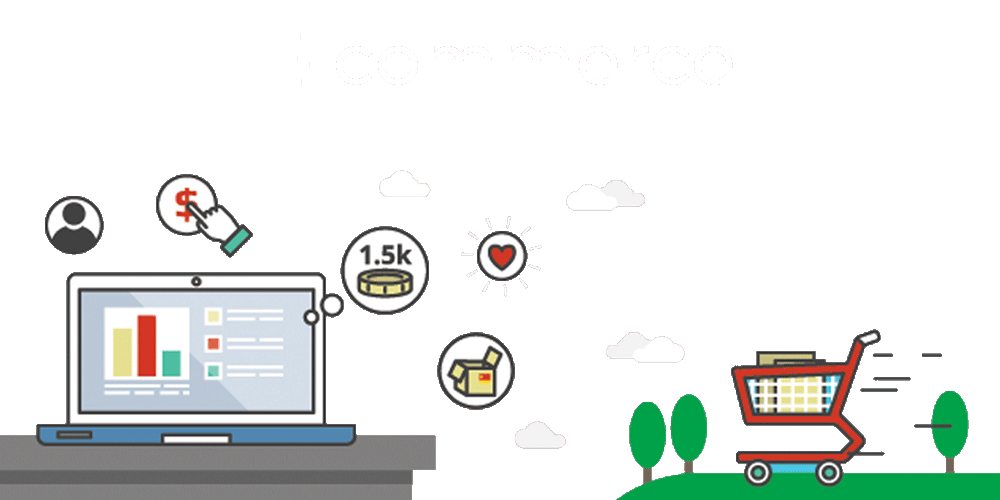
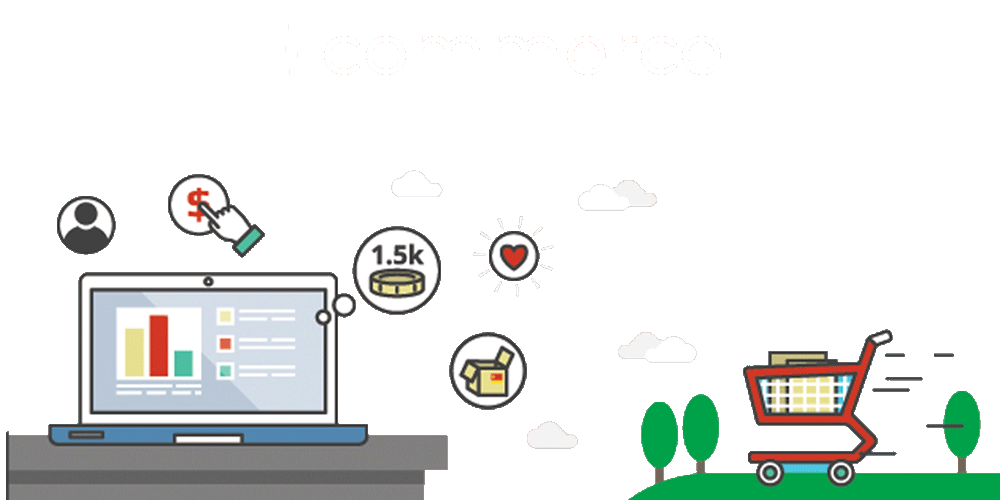
services section update

diff --git a/css/style.css b/css/style.css
@@ -289,6 +289,8 @@ html body #title_underline{
 }
 #services_content div{
    margin-bottom: 30px;
+   padding: 3% 2%
+
 }
 #services_content h5{
    font-family: 'Montserrat', sans-serif;
@@ -322,7 +324,7 @@ html body #title_underline{
    object-fit: cover;
    width:100%;
    height: 100%;
-   background: rgba(0, 123, 255, 0.81)
+   background: rgba(0, 123, 255, 0.488)
    
 }
 @media screen and (max-width: 370px){

diff --git a/index.html b/index.html
@@ -19,7 +19,7 @@
             <nav id="header_navbar" class="navbar navbar-expand-sm">
 
                <a href="#" class="navbar-brand">
-                  <h1>IPQtech</h1>
+                  <h1>IPQ tech</h1>
                </a>
 
                <button class="navbar-toggler" type="button" data-toggle="collapse" data-target="#collapsible_navbar">
